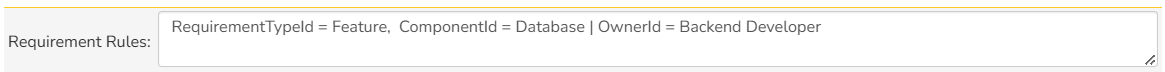
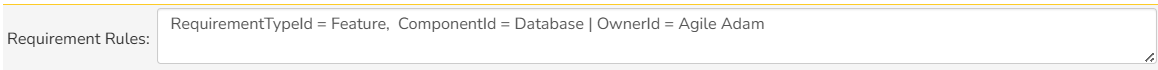
[IN:10797] Change names in examples to not elude to Product Roles

Changed region(s): [[0.0, 0.0571, 1.0, 0.9429], [0.1244, 0.2286, 0.715, 0.4857], [0.0, 0.4571, 0.1244, 0.6571]]

diff --git a/docs/SpiraApps/ConditionalLists.md b/docs/SpiraApps/ConditionalLists.md
@@ -55,21 +55,21 @@ See the following screenshot for an example:
 
 You can also use **multiple primary fields** (up to a maximum of 10) so that the affected list is only changed if each specific primary field's value is set as specified. In the example below we have a setting for requirements:
 
-![Requirement Rules: RequirementTypeId = Feature,  ComponentId = Database | OwnerId = Backend Developer](img/conditional-lists-requirement-multiple-primary.png)  
+![Requirement Rules: RequirementTypeId = Feature,  ComponentId = Database | OwnerId = Agile Adam](img/conditional-lists-requirement-multiple-primary.png)  
 
-This rule specifies that if a requirement has both a type of "Feature" *and* a component of "Database", then owner dropdown list will be limited to only "Backend Developer". In reality, 'Backend Developer' would be replaced by the first and last name of a user in your Spira instance.
+This rule specifies that if a requirement has both a type of "Feature" *and* a component of "Database", then the owner dropdown list will be limited to only "Agile Adam". In this case, 'Agile Adam' is the first and last name of a user in this Spira instance.
 
 **Custom properties** are supported. These must be listed like "Custom_01" for the field name. For the field values, you use the user-defined text values as they appear on the details page, just like built-in fields. Multiselect custom properties are only supported for affected fields, not primary fields. Other custom property types like List, User, Release, and Automation Host are supported for both primary and affected fields.
 
 You can also set multiple rules to affect the same list field. In this case, if both rules apply at the same time then the affected list's dropdown will be limited to the values shared between the limiting rules. For example:
 
-![Task Rules: (first rule): TaskTypeId = Development | OwnerId = Intern, Developer1, Developer2, Product Manager. (Second rule): ComponentId = Administration | OwnerId = Product Manager, Permissions Expert](img/conditional-lists-requirement-overlap-effected.png)
+![Task Rules: (first rule): TaskTypeId = Development | OwnerId = Agile Adam, Balanced Barbara, Classy Cameron, Dynamic Donna. (Second rule): ComponentId = Administration | OwnerId = Dynamic Donna, Eccentric Eli](img/conditional-lists-task-overlap-effected.png)
 
 In this case, there are 2 task rules that both apply to the owner field - one with a primary field of type, and the other of component.
 
 - When a task has the "Development" type, its owner field would be limited to the four users listed. 
 - When a task has the "Administration" component, its owner field would be limited to the two users listed.
-- When a task has both a type of "Development" and a component of "Administration", then its owner field will be limited to the overlap between the four users and the two users in each rule, which will be just the "Product Manager", because that is the only option included in both rules.
+- When a task has both a type of "Development" and a component of "Administration", then its owner field will be limited to the overlap between the four users and the two users in each rule, which will be just "Dynamic Donna", because that is the only option included in both rules.
 
 #### Validate Field Names and Rules 
 The menu button at the bottom of the settings page can be used to **validate your settings**.
